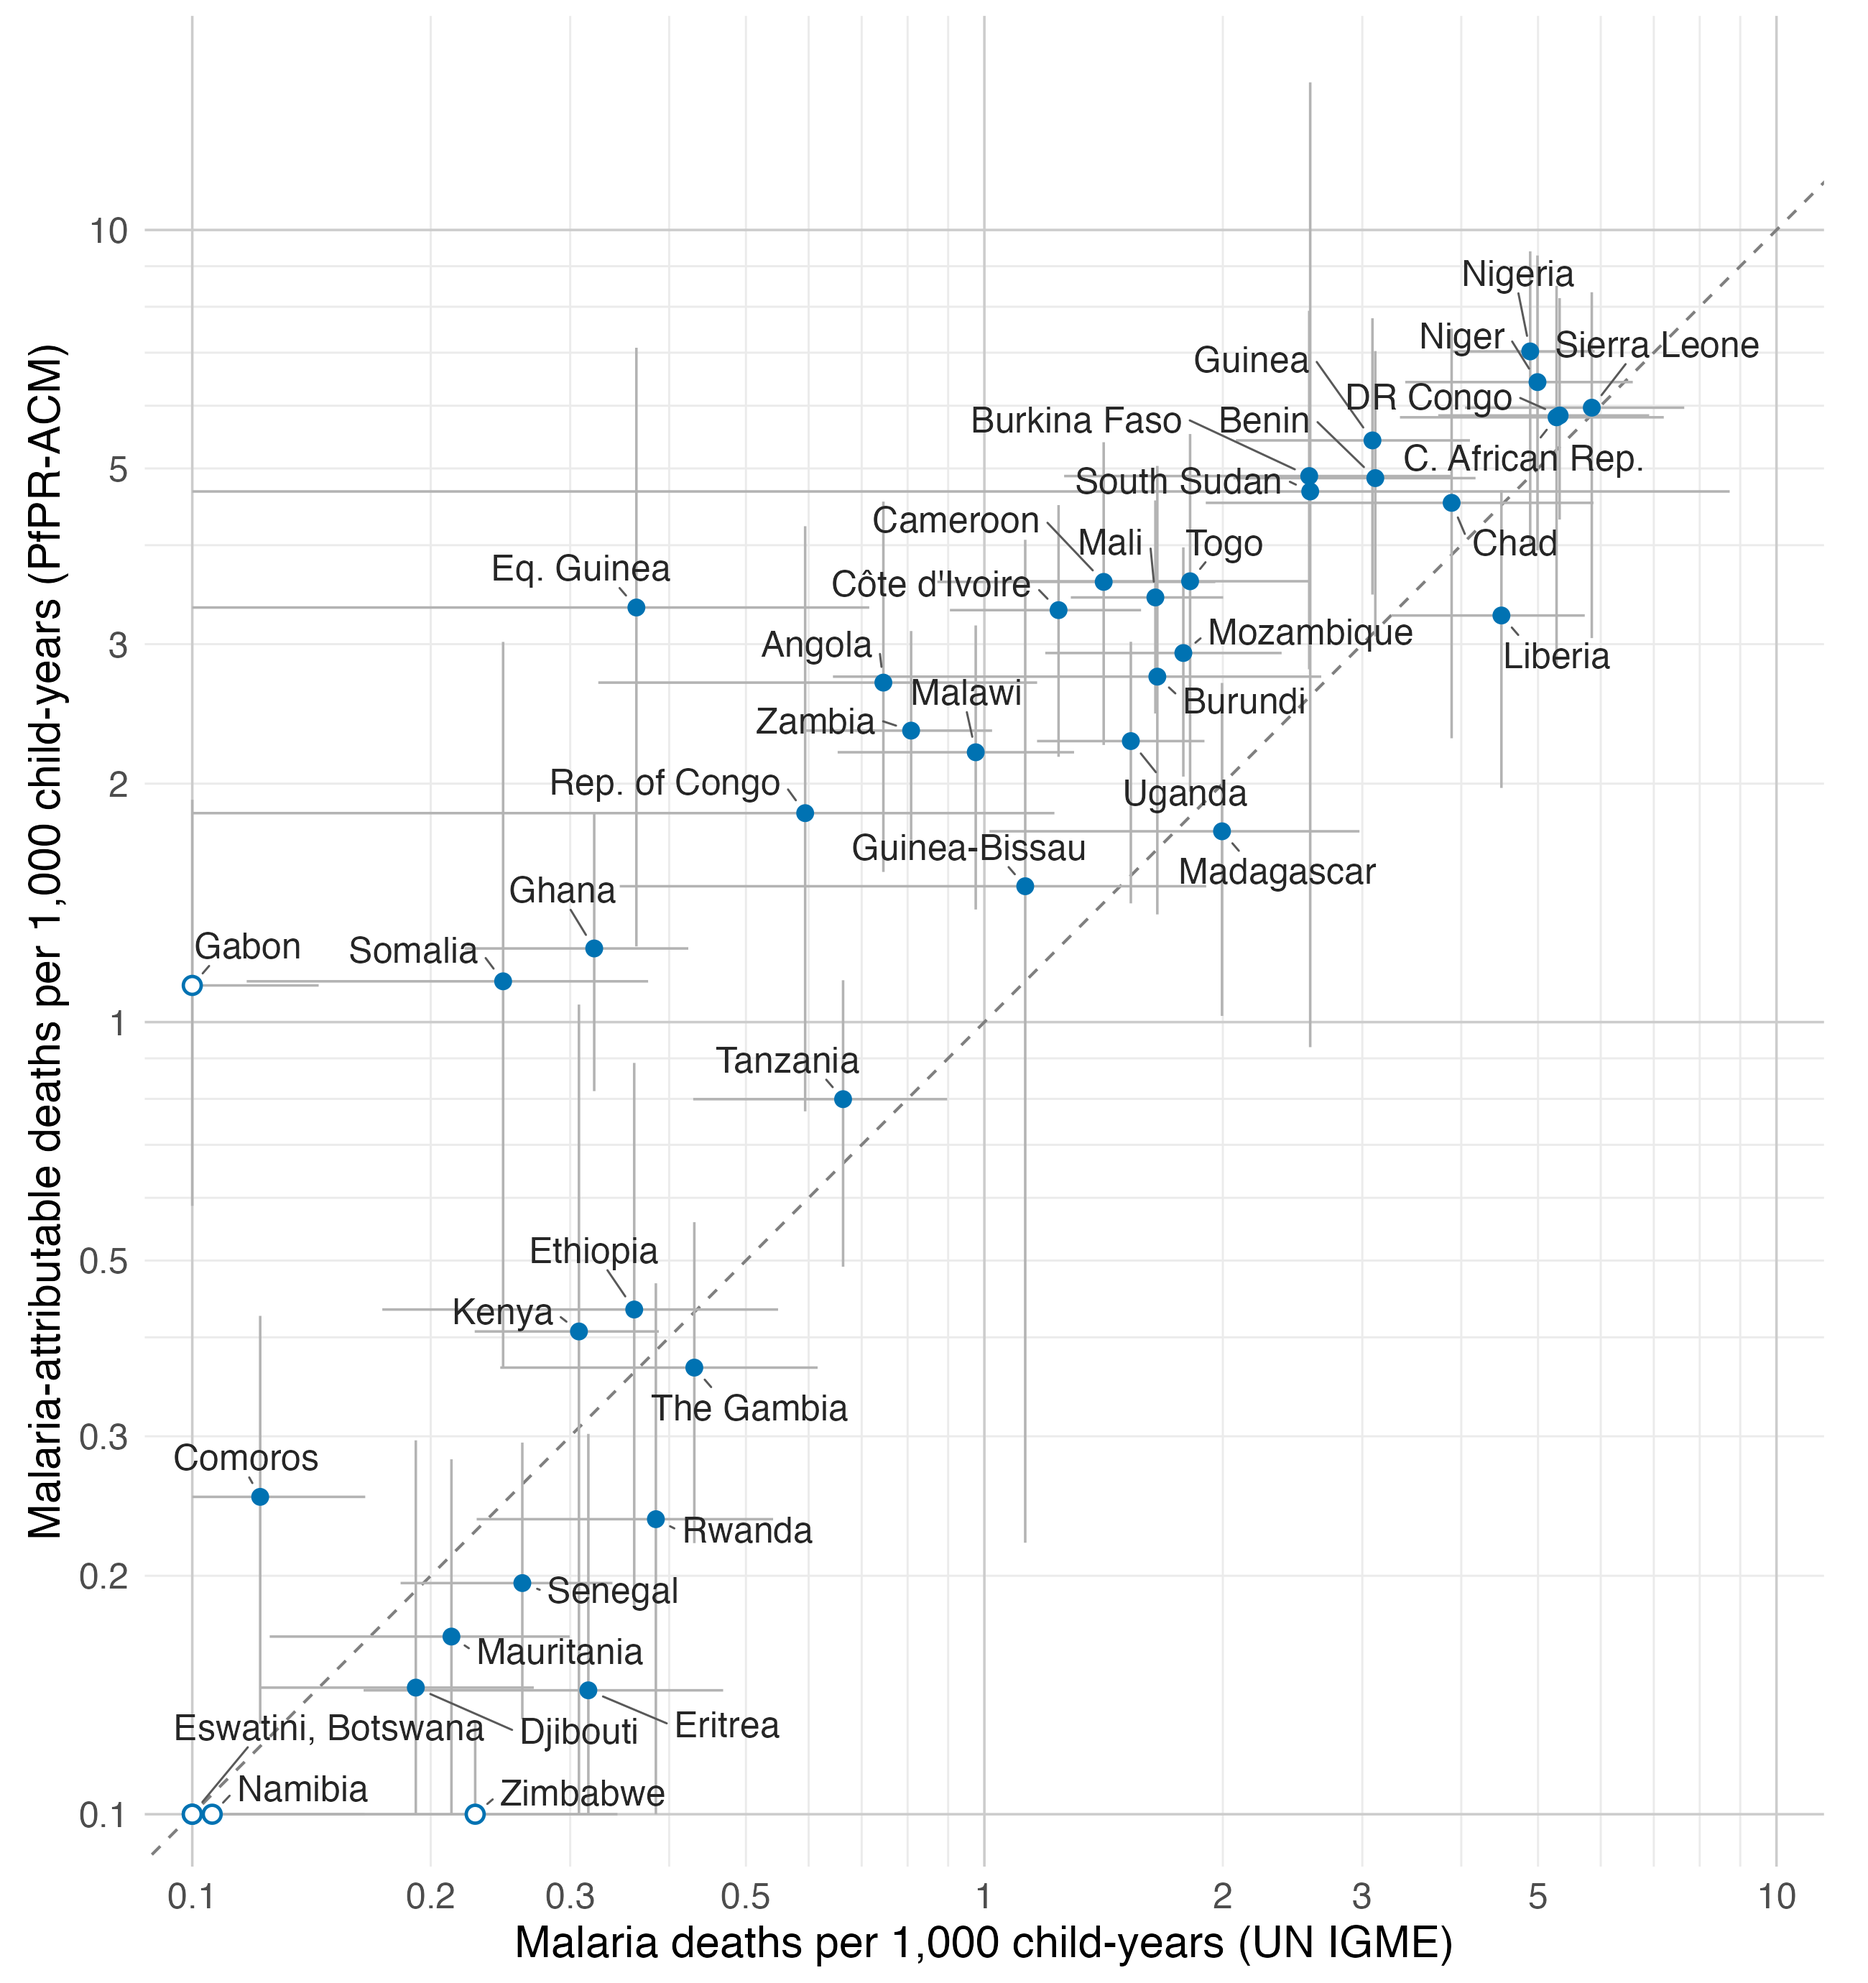
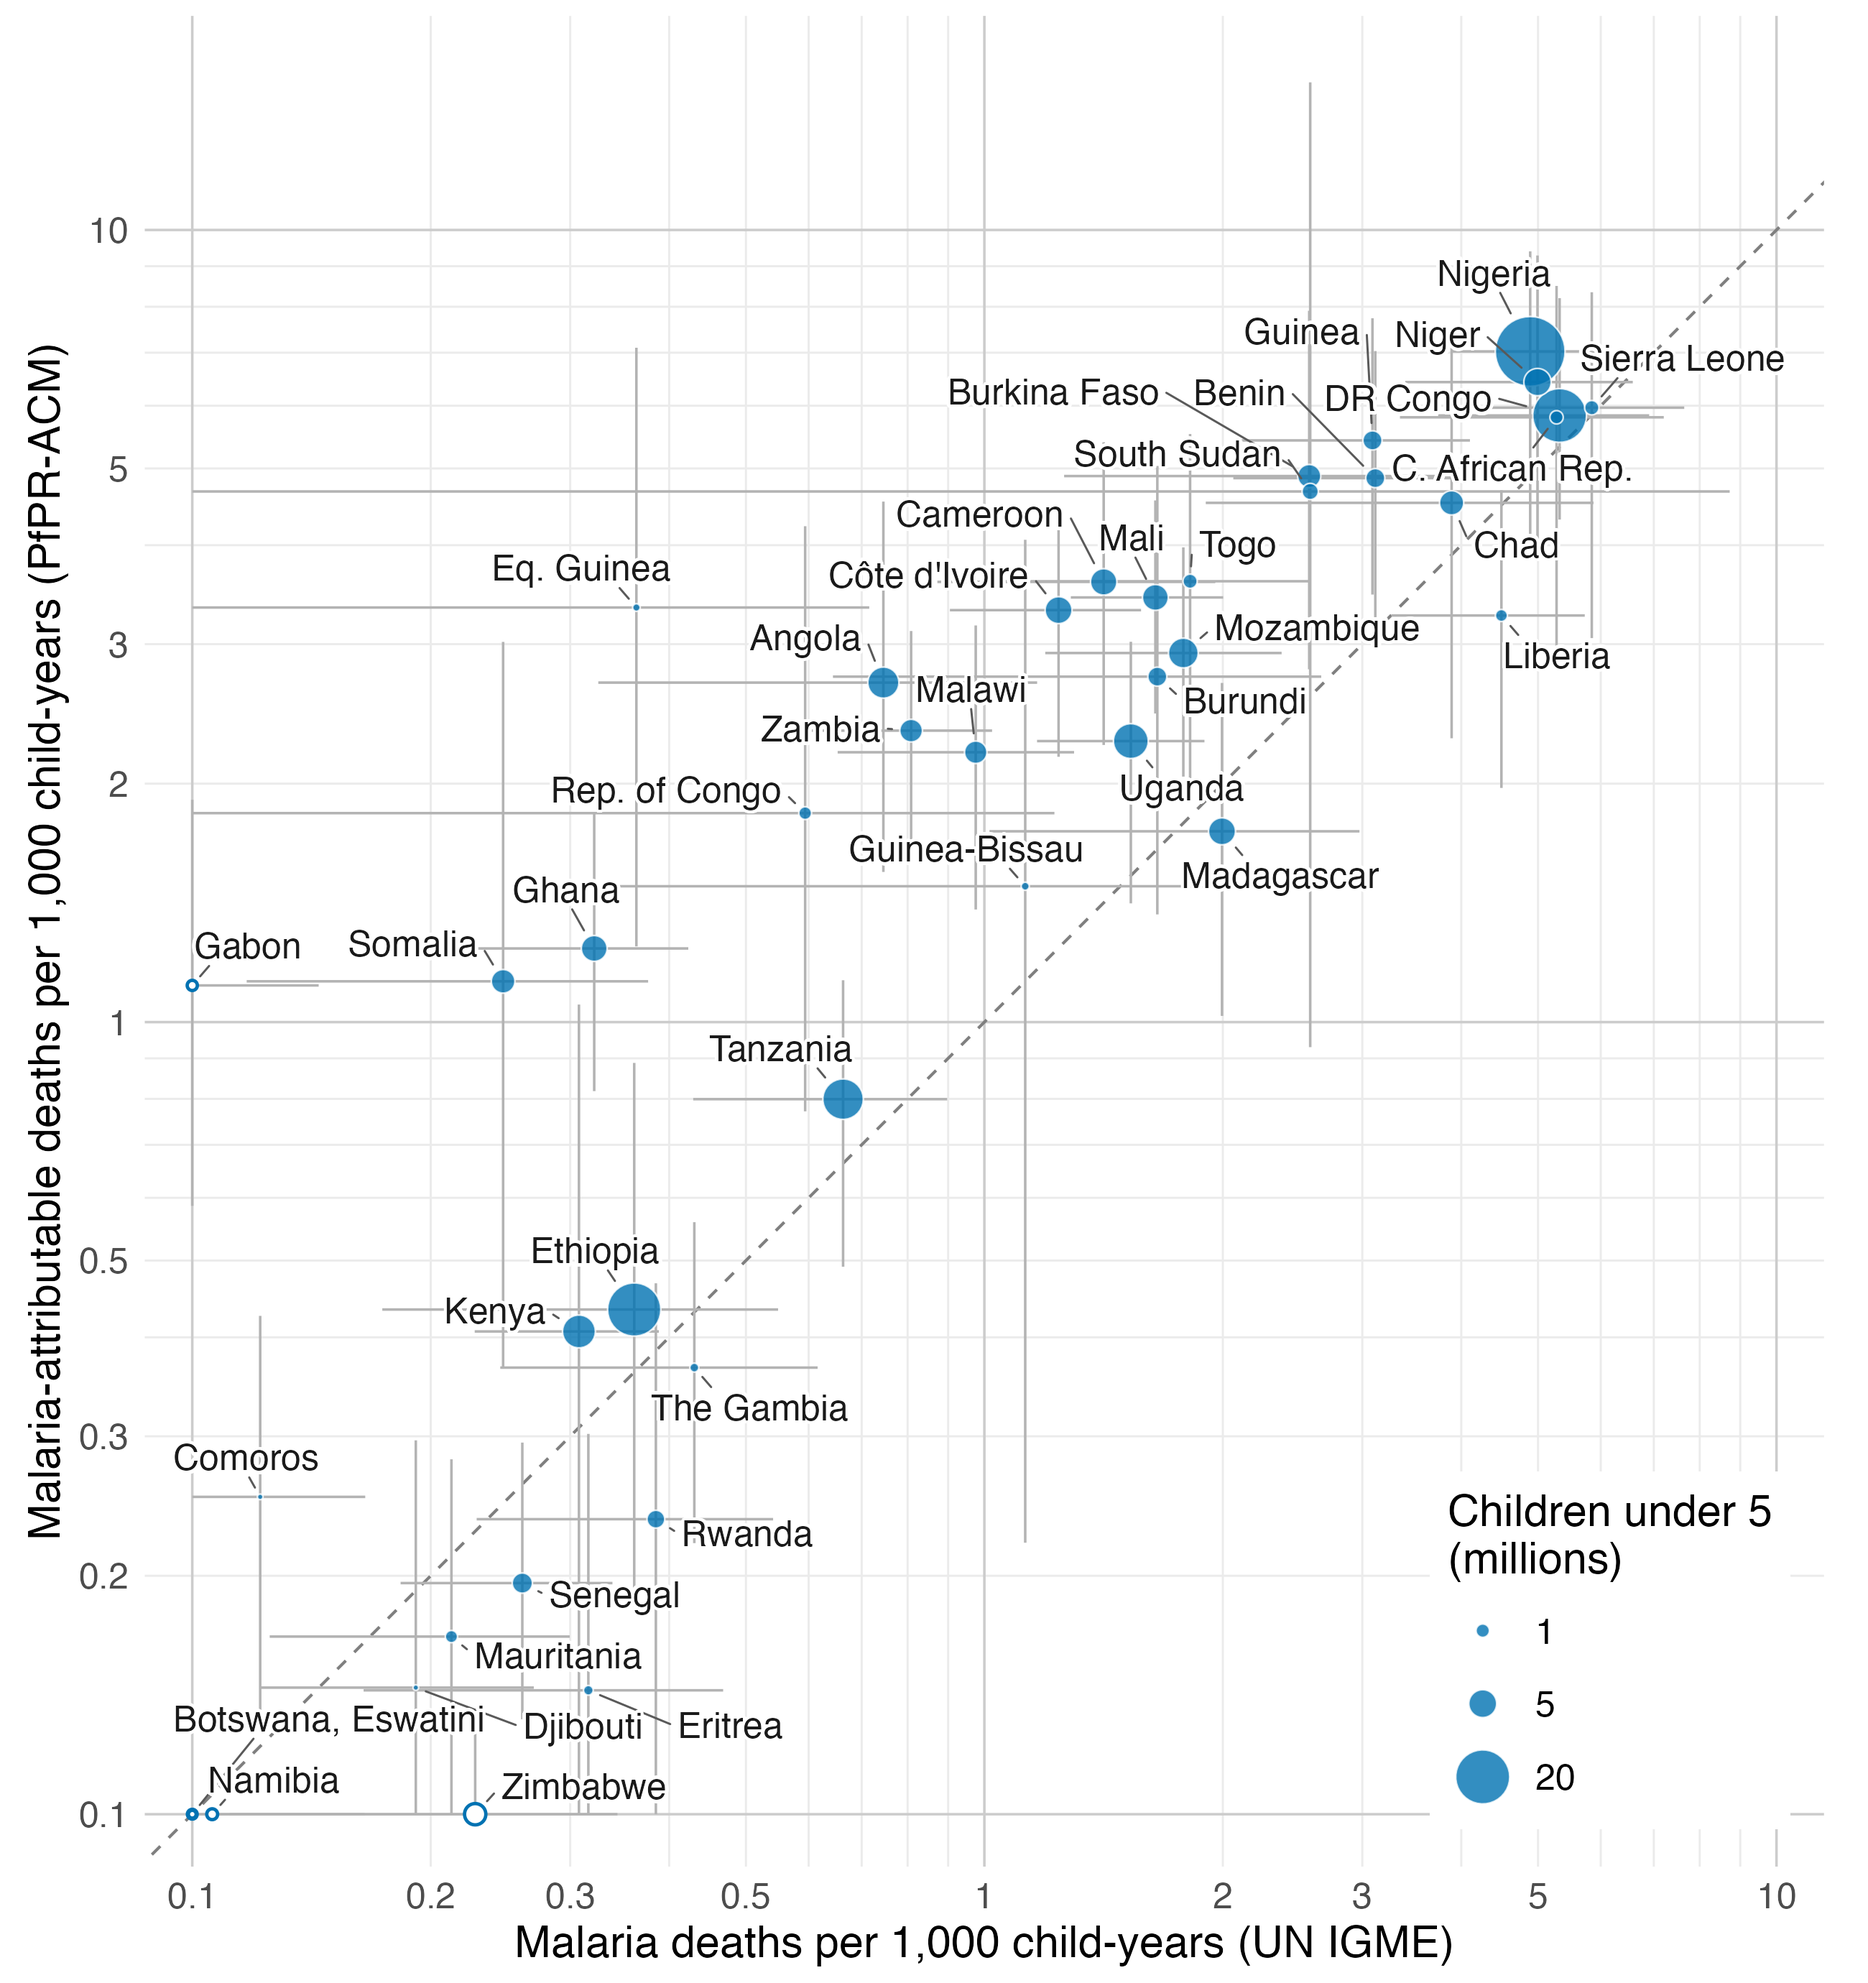
Figure 5: name only the higher-burden countries; point size by under-5 population
Author requests, 18 November 2026. The linear Figure 5 and its IHME version
name the countries with an estimate of at least 4 per 1,000 from either source
(11 and 12 countries), in 10 pt with a white halo. In all three figures the
point area is proportional to the UN WPP population under 5, with a size
legend inside the panel.

diff --git a/paper/Supplementary Figures/sfig_model_vs_cause_specific_log_2024_caption.md b/paper/Supplementary Figures/sfig_model_vs_cause_specific_log_2024_caption.md
@@ -1,3 +1,3 @@
 # Supplementary figure caption — PfPR-ACM against UN IGME malaria mortality, by country, log scale
 
-**Figure. Malaria-attributable under-five mortality in 2024: PfPR-ACM model against UN IGME malaria deaths, on log scales.** Each point is a country; rates are deaths per 1,000 child-years under 5. PfPR-ACM estimates using UN IGME all-cause mortality (y) against UN IGME (CA-CODE) malaria deaths (x), both over the UN WPP population under 5. The PfPR-ACM estimate counts all deaths averted if prevalence fell to zero (direct and indirect); UN IGME counts deaths assigned to malaria as the underlying cause. The dashed line is equality. The data are those of the main-text figure; every country is named. Spearman correlation: 0.91; the PfPR-ACM estimate is higher in 31 of 42 countries. Vertical lines are 95% uncertainty intervals of the PfPR-ACM estimates, from 500 joint draws of MAP's national PfPR[2–10], the all-cause deaths and the PfPR–death curves (Supplementary Methods); horizontal lines are the 90% bounds of the UN IGME (CA-CODE) malaria deaths. The lower bound exceeds the UN IGME estimate in 17 countries, and the upper bound is below it in 4. Both axes are logarithmic and start at 0.1 per 1,000: a value below that is drawn at 0.1 with an open circle (Gabon: UN IGME 0.09, PfPR-ACM 1.11; Zimbabwe: UN IGME 0.23, PfPR-ACM 0.08; Namibia: UN IGME 0.11, PfPR-ACM 0.02; Eswatini: UN IGME 0.01, PfPR-ACM 0.00; Botswana: UN IGME 0.00, PfPR-ACM 0.00), and intervals are cut there. CA-CODE assigns malaria deaths to ages 1–59 months as a whole and none under 1 month, and takes malaria from WHO estimates in 13 low-burden countries.
+**Figure. Malaria-attributable under-five mortality in 2024: PfPR-ACM model against UN IGME malaria deaths, on log scales.** Each point is a country; rates are deaths per 1,000 child-years under 5. PfPR-ACM estimates using UN IGME all-cause mortality (y) against UN IGME (CA-CODE) malaria deaths (x), both over the UN WPP population under 5. The PfPR-ACM estimate counts all deaths averted if prevalence fell to zero (direct and indirect); UN IGME counts deaths assigned to malaria as the underlying cause. The dashed line is equality. Point area is proportional to the population under 5 (UN WPP). The data are those of the main-text figure; every country is named. Spearman correlation: 0.91; the PfPR-ACM estimate is higher in 31 of 42 countries. Vertical lines are 95% uncertainty intervals of the PfPR-ACM estimates, from 500 joint draws of MAP's national PfPR[2–10], the all-cause deaths and the PfPR–death curves (Supplementary Methods); horizontal lines are the 90% bounds of the UN IGME (CA-CODE) malaria deaths. The lower bound exceeds the UN IGME estimate in 17 countries, and the upper bound is below it in 4. Both axes are logarithmic and start at 0.1 per 1,000: a value below that is drawn at 0.1 with an open circle (Zimbabwe: UN IGME 0.23, PfPR-ACM 0.08; Namibia: UN IGME 0.11, PfPR-ACM 0.02; Gabon: UN IGME 0.09, PfPR-ACM 1.11; Botswana: UN IGME 0.00, PfPR-ACM 0.00; Eswatini: UN IGME 0.01, PfPR-ACM 0.00), and intervals are cut there. CA-CODE assigns malaria deaths to ages 1–59 months as a whole and none under 1 month, and takes malaria from WHO estimates in 13 low-burden countries.

diff --git a/paper/figures/primary_figure_captions.md b/paper/figures/primary_figure_captions.md
@@ -32,6 +32,6 @@ File: `fig4_malaria_mortality_rates_unigme.png` (source `mortality_rates/fig_mal
 
 File: `fig5_model_vs_cause_specific_2024.png` (source `model_vs_cause_specific/fig5_model_vs_cause_specific_2024.png`; values in `model_vs_cause_specific/figure_data.csv`).
 
-**Figure. Malaria-attributable under-five mortality in 2024: PfPR-ACM model against UN IGME malaria deaths.** Each point is a country; rates are deaths per 1,000 child-years under 5. PfPR-ACM estimates using UN IGME all-cause mortality (y) against UN IGME (CA-CODE) malaria deaths (x), both over the UN WPP population under 5. The PfPR-ACM estimate counts all deaths averted if prevalence fell to zero (direct and indirect); UN IGME counts deaths assigned to malaria as the underlying cause. The dashed line is equality. Countries with an estimate of at least 1 per 1,000 from either source are named (28 of 42). Spearman correlation: 0.91; the PfPR-ACM estimate is higher in 31 of 42 countries. Vertical lines are 95% uncertainty intervals of the PfPR-ACM estimates, from 500 joint draws of MAP's national PfPR[2–10], the all-cause deaths and the PfPR–death curves (Supplementary Methods); horizontal lines are the 90% bounds of the UN IGME (CA-CODE) malaria deaths. The lower bound exceeds the UN IGME estimate in 17 countries, and the upper bound is below it in 4. Intervals beyond the axes are truncated with an arrow: South Sudan (upper bound 15.4). CA-CODE assigns malaria deaths to ages 1–59 months as a whole and none under 1 month, and takes malaria from WHO estimates in 13 low-burden countries.
+**Figure. Malaria-attributable under-five mortality in 2024: PfPR-ACM model against UN IGME malaria deaths.** Each point is a country; rates are deaths per 1,000 child-years under 5. PfPR-ACM estimates using UN IGME all-cause mortality (y) against UN IGME (CA-CODE) malaria deaths (x), both over the UN WPP population under 5. The PfPR-ACM estimate counts all deaths averted if prevalence fell to zero (direct and indirect); UN IGME counts deaths assigned to malaria as the underlying cause. The dashed line is equality. Point area is proportional to the population under 5 (UN WPP). Countries with an estimate of at least 4 per 1,000 from either source are named (11 of 42). Spearman correlation: 0.91; the PfPR-ACM estimate is higher in 31 of 42 countries. Vertical lines are 95% uncertainty intervals of the PfPR-ACM estimates, from 500 joint draws of MAP's national PfPR[2–10], the all-cause deaths and the PfPR–death curves (Supplementary Methods); horizontal lines are the 90% bounds of the UN IGME (CA-CODE) malaria deaths. The lower bound exceeds the UN IGME estimate in 17 countries, and the upper bound is below it in 4. Intervals beyond the axes are truncated with an arrow: South Sudan (upper bound 15.4). CA-CODE assigns malaria deaths to ages 1–59 months as a whole and none under 1 month, and takes malaria from WHO estimates in 13 low-burden countries.
 
 [Source paths and hashes](manifest.csv). Copy the five main images into the manuscript's `figures/` folder and the supplementary images into `Supplementary Figures/`. No TeX edits are needed to prepare or copy the images; TeX references/captions are managed separately.

diff --git a/paper/figures/fig5_model_vs_cause_specific_2024_caption.md b/paper/figures/fig5_model_vs_cause_specific_2024_caption.md
@@ -1,3 +1,3 @@
 # Figure 5 caption — PfPR-ACM against UN IGME malaria mortality, by country
 
-**Figure. Malaria-attributable under-five mortality in 2024: PfPR-ACM model against UN IGME malaria deaths.** Each point is a country; rates are deaths per 1,000 child-years under 5. PfPR-ACM estimates using UN IGME all-cause mortality (y) against UN IGME (CA-CODE) malaria deaths (x), both over the UN WPP population under 5. The PfPR-ACM estimate counts all deaths averted if prevalence fell to zero (direct and indirect); UN IGME counts deaths assigned to malaria as the underlying cause. The dashed line is equality. Countries with an estimate of at least 1 per 1,000 from either source are named (28 of 42). Spearman correlation: 0.91; the PfPR-ACM estimate is higher in 31 of 42 countries. Vertical lines are 95% uncertainty intervals of the PfPR-ACM estimates, from 500 joint draws of MAP's national PfPR[2–10], the all-cause deaths and the PfPR–death curves (Supplementary Methods); horizontal lines are the 90% bounds of the UN IGME (CA-CODE) malaria deaths. The lower bound exceeds the UN IGME estimate in 17 countries, and the upper bound is below it in 4. Intervals beyond the axes are truncated with an arrow: South Sudan (upper bound 15.4). CA-CODE assigns malaria deaths to ages 1–59 months as a whole and none under 1 month, and takes malaria from WHO estimates in 13 low-burden countries.
+**Figure. Malaria-attributable under-five mortality in 2024: PfPR-ACM model against UN IGME malaria deaths.** Each point is a country; rates are deaths per 1,000 child-years under 5. PfPR-ACM estimates using UN IGME all-cause mortality (y) against UN IGME (CA-CODE) malaria deaths (x), both over the UN WPP population under 5. The PfPR-ACM estimate counts all deaths averted if prevalence fell to zero (direct and indirect); UN IGME counts deaths assigned to malaria as the underlying cause. The dashed line is equality. Point area is proportional to the population under 5 (UN WPP). Countries with an estimate of at least 4 per 1,000 from either source are named (11 of 42). Spearman correlation: 0.91; the PfPR-ACM estimate is higher in 31 of 42 countries. Vertical lines are 95% uncertainty intervals of the PfPR-ACM estimates, from 500 joint draws of MAP's national PfPR[2–10], the all-cause deaths and the PfPR–death curves (Supplementary Methods); horizontal lines are the 90% bounds of the UN IGME (CA-CODE) malaria deaths. The lower bound exceeds the UN IGME estimate in 17 countries, and the upper bound is below it in 4. Intervals beyond the axes are truncated with an arrow: South Sudan (upper bound 15.4). CA-CODE assigns malaria deaths to ages 1–59 months as a whole and none under 1 month, and takes malaria from WHO estimates in 13 low-burden countries.

diff --git a/paper/Supplementary Figures/sfig_model_vs_cause_specific_ihme_2024_caption.md b/paper/Supplementary Figures/sfig_model_vs_cause_specific_ihme_2024_caption.md
@@ -1,3 +1,3 @@
 # Supplementary figure caption — PfPR-ACM against IHME malaria mortality, by country
 
-**Figure. Malaria-attributable under-five mortality in 2024: PfPR-ACM model with IHME all-cause mortality against IHME malaria deaths.** Each point is a country; rates are deaths per 1,000 child-years under 5. PfPR-ACM estimates using IHME all-cause mortality (y) against IHME malaria deaths (x), both over IHME person-years. The PfPR-ACM estimate counts all deaths averted if prevalence fell to zero (direct and indirect); IHME counts deaths assigned to malaria as the underlying cause. The dashed line is equality. Countries with an estimate of at least 1 per 1,000 from either source are named (29 of 42). Spearman correlation: 0.91; the PfPR-ACM estimate is higher in 30 of 42 countries. Vertical lines are 95% uncertainty intervals of the PfPR-ACM estimates, from 500 joint draws of MAP's national PfPR[2–10], the all-cause deaths and the PfPR–death curves (Supplementary Methods); horizontal lines are IHME's 95% uncertainty intervals. The lower bound exceeds the IHME estimate in 17 countries, and the upper bound is below it in 5. The axes are those of the main-text figure (UN IGME). South Sudan's IHME all-cause mortality is its crisis-free value.
+**Figure. Malaria-attributable under-five mortality in 2024: PfPR-ACM model with IHME all-cause mortality against IHME malaria deaths.** Each point is a country; rates are deaths per 1,000 child-years under 5. PfPR-ACM estimates using IHME all-cause mortality (y) against IHME malaria deaths (x), both over IHME person-years. The PfPR-ACM estimate counts all deaths averted if prevalence fell to zero (direct and indirect); IHME counts deaths assigned to malaria as the underlying cause. The dashed line is equality. Point area is proportional to the population under 5 (UN WPP). Countries with an estimate of at least 4 per 1,000 from either source are named (12 of 42). Spearman correlation: 0.91; the PfPR-ACM estimate is higher in 30 of 42 countries. Vertical lines are 95% uncertainty intervals of the PfPR-ACM estimates, from 500 joint draws of MAP's national PfPR[2–10], the all-cause deaths and the PfPR–death curves (Supplementary Methods); horizontal lines are IHME's 95% uncertainty intervals. The lower bound exceeds the IHME estimate in 17 countries, and the upper bound is below it in 5. The axes are those of the main-text figure (UN IGME). South Sudan's IHME all-cause mortality is its crisis-free value.
